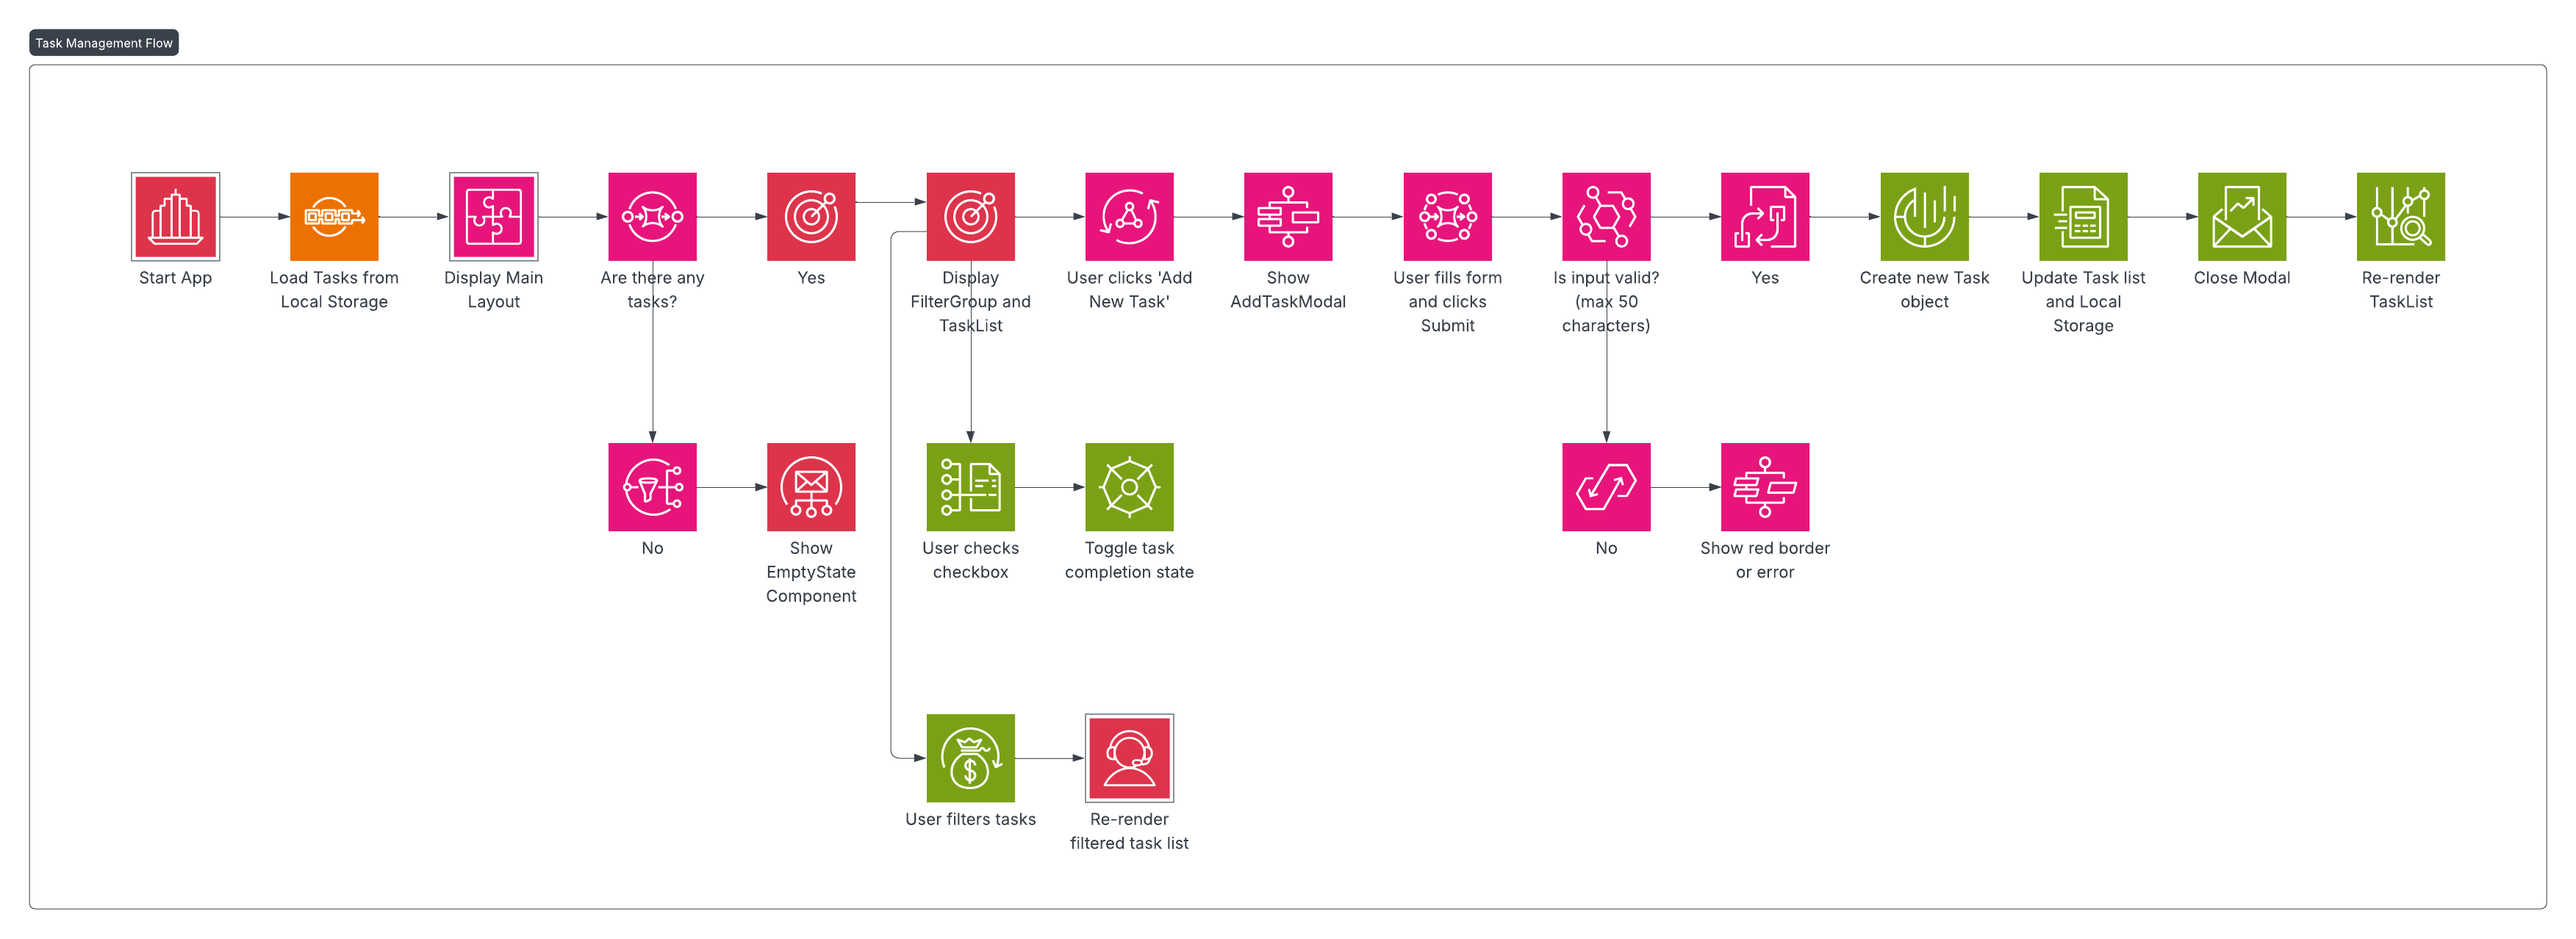
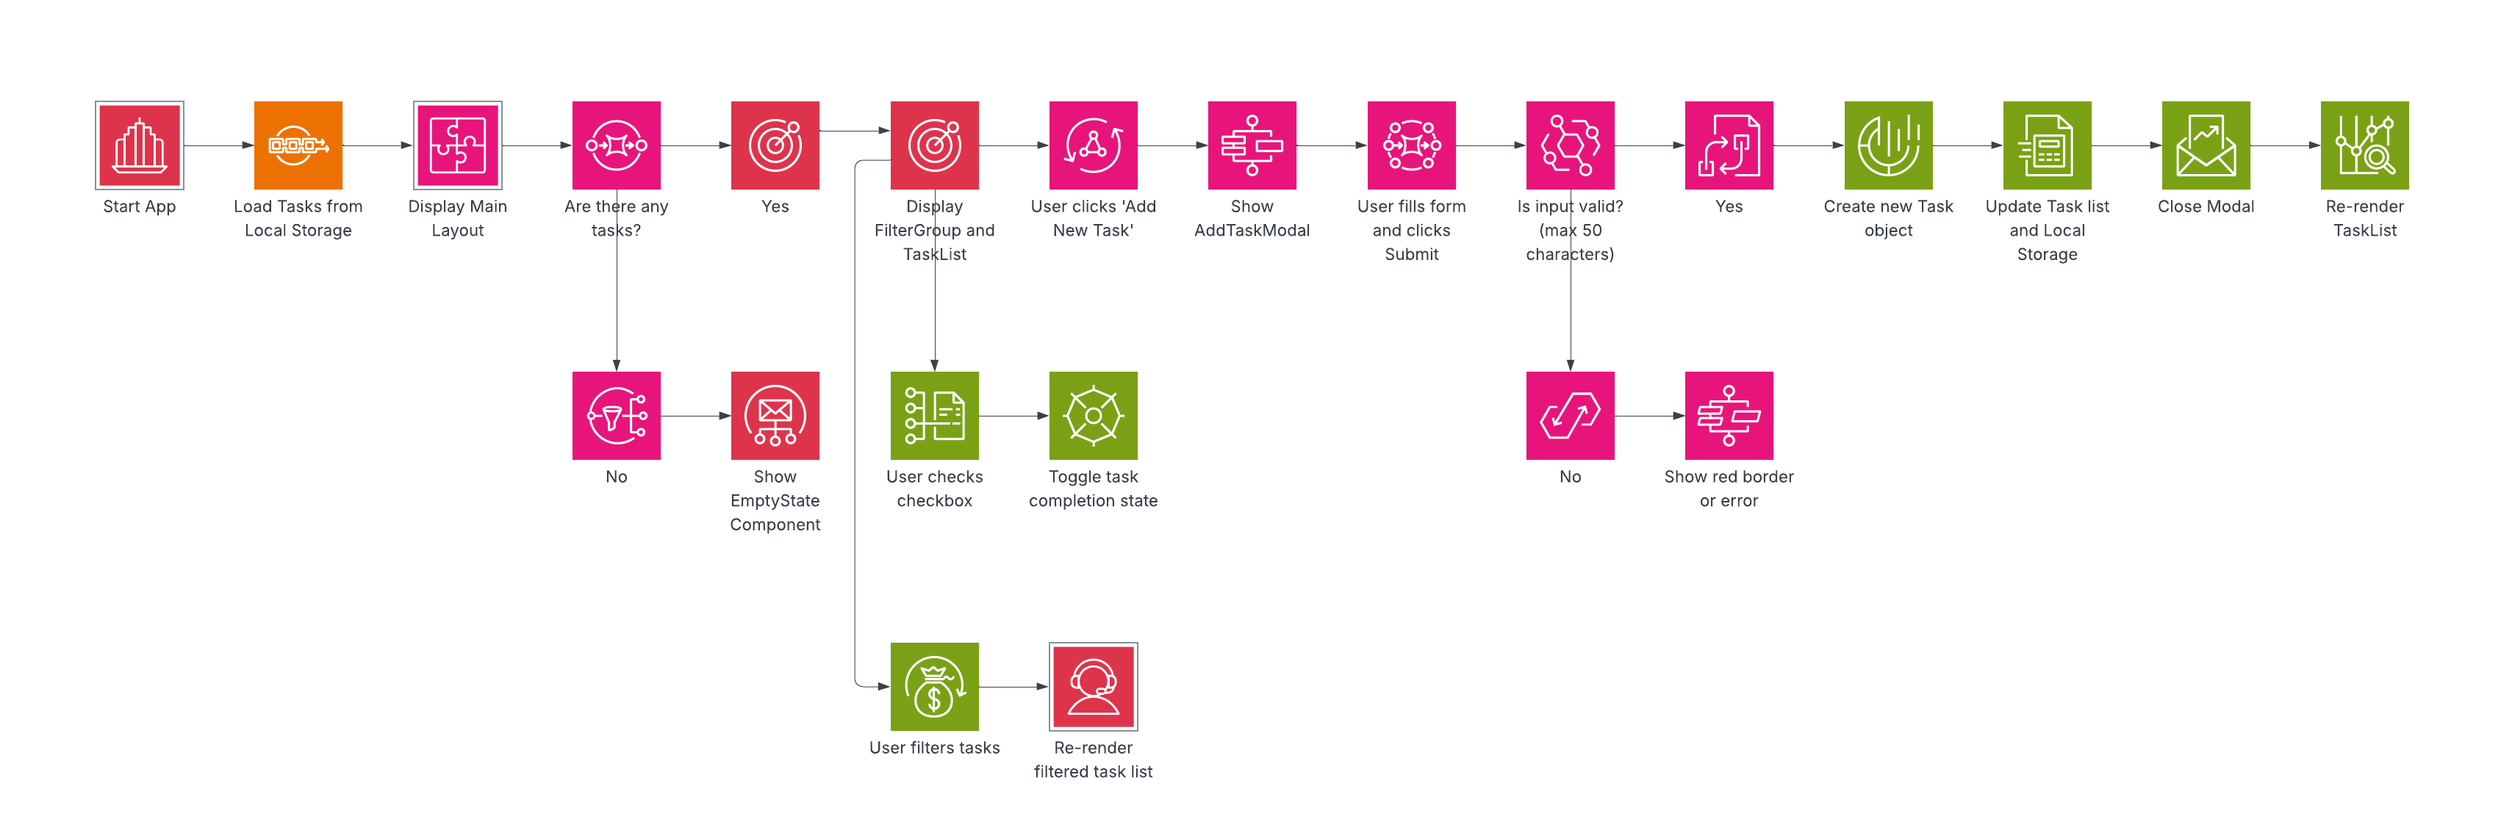
feat: enhance components with accessibility and structure improvements
- Added React imports to multiple atom and molecule components for consistency.
- Updated TaskInput to include id and aria-label for better accessibility.
- Enhanced AddTaskForm to associate the label with the TaskInput using htmlFor.
- Added data-testid attributes to TaskItem and EmptyTaskList for improved testing capabilities.
- Updated Flowchart image asset.

diff --git a/src/tests/componets/molecules/AddTaskForm.test.jsx b/src/tests/componets/molecules/AddTaskForm.test.jsx
@@ -1,0 +1,49 @@
+import "@testing-library/jest-dom";
+import React from "react";
+import { render, screen, fireEvent } from "@testing-library/react";
+import AddTaskForm from "../../../components/molecules/AddTaskForm";
+import { jest, describe, it, expect } from "@jest/globals";
+
+describe("AddTaskForm", () => {
+  it("renders all form fields", () => {
+    render(<AddTaskForm onSubmit={jest.fn()} />);
+    expect(screen.getByText("Category")).toBeInTheDocument();
+    expect(screen.getByText("Color")).toBeInTheDocument();
+    expect(screen.getByText("Task")).toBeInTheDocument();
+    expect(
+      screen.getByRole("button", { name: /add task/i })
+    ).toBeInTheDocument();
+  });
+
+  it("calls onSubmit with correct data when form is submitted", () => {
+    const handleSubmit = jest.fn();
+    render(<AddTaskForm onSubmit={handleSubmit} />);
+    fireEvent.change(screen.getByLabelText("Task"), {
+      target: { value: "Test Task" },
+    });
+    fireEvent.click(screen.getByRole("button", { name: /add task/i }));
+    expect(handleSubmit).toHaveBeenCalledWith(
+      expect.objectContaining({
+        text: "Test Task",
+        category: expect.any(String),
+        color: expect.any(String),
+        status: false,
+        id: expect.any(Number),
+      })
+    );
+  });
+
+  it("does not call onSubmit if task is empty or too long", () => {
+    const handleSubmit = jest.fn();
+    render(<AddTaskForm onSubmit={handleSubmit} />);
+    // Try submitting empty
+    fireEvent.click(screen.getByRole("button", { name: /add task/i }));
+    expect(handleSubmit).not.toHaveBeenCalled();
+    // Try submitting too long
+    fireEvent.change(screen.getByLabelText("Task"), {
+      target: { value: "a".repeat(33) },
+    });
+    fireEvent.click(screen.getByRole("button", { name: /add task/i }));
+    expect(handleSubmit).not.toHaveBeenCalled();
+  });
+});

diff --git a/src/tests/componets/atoms/Button.test.jsx b/src/tests/componets/atoms/Button.test.jsx
@@ -1,0 +1,39 @@
+import "@testing-library/jest-dom";
+import React from "react";
+import { render, screen, fireEvent } from "@testing-library/react";
+import Button from "../../../components/atoms/Button";
+import { jest, describe, it, expect } from "@jest/globals";
+
+describe("Button", () => {
+  it("renders children", () => {
+    render(<Button>Click Me</Button>);
+    expect(screen.getByRole("button")).toHaveTextContent("Click Me");
+  });
+
+  it("applies primary class by default", () => {
+    render(<Button>Primary</Button>);
+    expect(screen.getByRole("button")).toHaveClass("bg-blue-500");
+  });
+
+  it("applies secondary class when type is 'secondary'", () => {
+    render(<Button type="secondary">Secondary</Button>);
+    expect(screen.getByRole("button")).toHaveClass("border-gray-300");
+  });
+
+  it("applies close class when type is 'close'", () => {
+    render(<Button type="close">Close</Button>);
+    expect(screen.getByRole("button")).toHaveClass("hover:text-red-500");
+  });
+
+  it("calls onClick when clicked", () => {
+    const handleClick = jest.fn();
+    render(<Button onClick={handleClick}>Click</Button>);
+    fireEvent.click(screen.getByRole("button"));
+    expect(handleClick).toHaveBeenCalled();
+  });
+
+  it("is disabled when disabled prop is true", () => {
+    render(<Button disabled>Disabled</Button>);
+    expect(screen.getByRole("button")).toBeDisabled();
+  });
+});

diff --git a/src/tests/componets/organisms/TaskList.test.jsx b/src/tests/componets/organisms/TaskList.test.jsx
@@ -1,0 +1,24 @@
+import "@testing-library/jest-dom";
+import React from "react";
+import { render, screen } from "@testing-library/react";
+import TaskList from "../../../components/organisms/TaskList";
+import { jest, describe, it, expect } from "@jest/globals";
+
+describe("TaskList", () => {
+  it("renders EmptyTaskList when tasks is empty", () => {
+    render(<TaskList tasks={[]} setTasks={jest.fn()} />);
+    expect(screen.getByTestId("empty-task-list")).toBeInTheDocument();
+  });
+
+  it("renders TaskItem for each task", () => {
+    const tasks = [
+      { id: 1, text: "Task 1" },
+      { id: 2, text: "Task 2" },
+    ];
+    render(<TaskList tasks={tasks} setTasks={jest.fn()} />);
+    const items = screen.getAllByTestId("task-item");
+    expect(items).toHaveLength(2);
+    expect(items[0]).toHaveTextContent("Task 1");
+    expect(items[1]).toHaveTextContent("Task 2");
+  });
+});

diff --git a/src/tests/componets/atoms/FormLabel.test.jsx b/src/tests/componets/atoms/FormLabel.test.jsx
@@ -1,0 +1,20 @@
+import "@testing-library/jest-dom";
+import React from "react";
+import { render, screen } from "@testing-library/react";
+import { describe, it, expect } from "@jest/globals";
+import FormLabel from "../../../components/atoms/FormLabel";
+
+describe("FormLabel", () => {
+  it("renders children correctly", () => {
+    render(<FormLabel>Test Label</FormLabel>);
+    const label = screen.getByText("Test Label");
+    expect(label).toBeInTheDocument();
+    expect(label.tagName).toBe("LABEL");
+  });
+
+  it("applies the correct className", () => {
+    render(<FormLabel>Label</FormLabel>);
+    const label = screen.getByText("Label");
+    expect(label).toHaveClass("block text-xs md:text-sm text-gray-700 mb-1");
+  });
+});

diff --git a/src/components/molecules/AddTaskForm.jsx b/src/components/molecules/AddTaskForm.jsx
@@ -1,3 +1,4 @@
+import React from "react";
 import { useState } from "react";
 import Select from "../atoms/Select";
 import Button from "../atoms/Button";
@@ -61,8 +62,14 @@ function AddTaskForm({ onSubmit }) {
       </div>
 
       <div>
-        <FormLabel>Task</FormLabel>
-        <TaskInput text={text} setText={setText} isTooLong={isTooLong} />
+        <FormLabel htmlFor="task-input">Task</FormLabel>
+        <TaskInput
+          id="task-input"
+          ariaLabel="Task"
+          text={text}
+          setText={setText}
+          isTooLong={isTooLong}
+        />
         <p
           className={`text-xs ${isTooLong ? "text-red-500" : "text-gray-400"}`}
         >

diff --git a/src/components/organisms/EmptyTaskList.jsx b/src/components/organisms/EmptyTaskList.jsx
@@ -1,6 +1,11 @@
+import React from "react";
+
 export default function EmptyTaskList() {
   return (
-    <div className="flex flex-col items-center justify-center text-center py-10 text-gray-500 h-[40vh] bg-gray-50 rounded-lg shadow-md mt-10">
+    <div
+      data-testid="empty-task-list"
+      className="flex flex-col items-center justify-center text-center py-10 text-gray-500 h-[40vh] bg-gray-50 rounded-lg shadow-md mt-10"
+    >
       <div className="text-4xl mb-2">📝</div>
       <h2 className="text-base md:text-xl font-semibold">No tasks yet</h2>
       <p className="text-sm">start adding a new task using the above button</p>

diff --git a/src/components/molecules/TaskItem.jsx b/src/components/molecules/TaskItem.jsx
@@ -1,3 +1,4 @@
+import React from "react";
 import Checkmark from "../atoms/Checkmark";
 
 function TaskItem({ task, setTasks }) {
@@ -33,6 +34,7 @@ function TaskItem({ task, setTasks }) {
 
   return (
     <div
+      data-testid="task-item"
       className={`flex items-center justify-between p-4 border rounded border-y-gray-200 border-r-gray-200 border-l-4 transition-colors duration-500 ${
         colorClasses[color]
       } bg-white shadow-xs hover:shadow-md transition-shadow duration-200 ${

diff --git a/src/components/atoms/TaskInput.jsx b/src/components/atoms/TaskInput.jsx
@@ -1,8 +1,10 @@
 import React from "react";
 
-function TaskInput({ text, setText, isTooLong }) {
+function TaskInput({ text, setText, isTooLong, id, ariaLabel }) {
   return (
     <textarea
+      id={id}
+      aria-label={ariaLabel}
       value={text}
       onChange={(e) => setText(e.target.value)}
       placeholder="Write your task..."

diff --git a/src/components/atoms/Button.jsx b/src/components/atoms/Button.jsx
@@ -1,3 +1,5 @@
+import React from "react";
+
 function Button({ children, type = "primary", onClick, disabled = false }) {
   return (
     <button

diff --git a/src/components/organisms/TaskList.jsx b/src/components/organisms/TaskList.jsx
@@ -1,3 +1,4 @@
+import React from "react";
 import TaskItem from "../molecules/TaskItem";
 import EmptyTaskList from "./EmptyTaskList";
 

diff --git a/src/components/atoms/Select.jsx b/src/components/atoms/Select.jsx
@@ -1,3 +1,5 @@
+import React from "react";
+
 function Select({ options, value, onChange, className }) {
   return (
     <select

diff --git a/src/components/atoms/Checkmark.jsx b/src/components/atoms/Checkmark.jsx
@@ -1,3 +1,5 @@
+import React from "react";
+
 function Checkmark({ checked, onChange }) {
   return (
     <input
